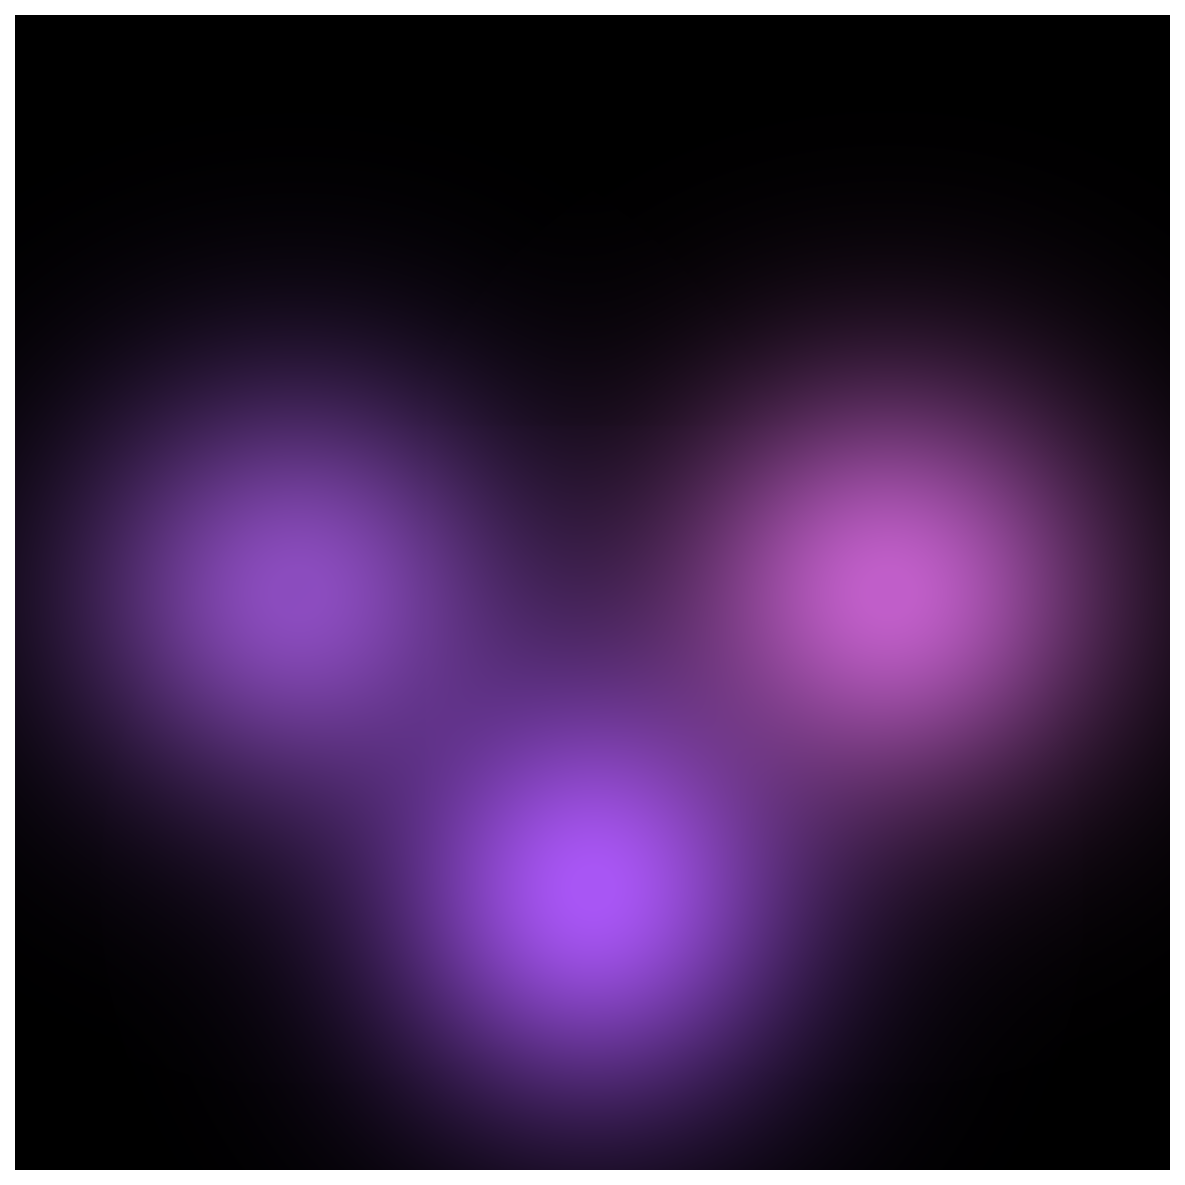
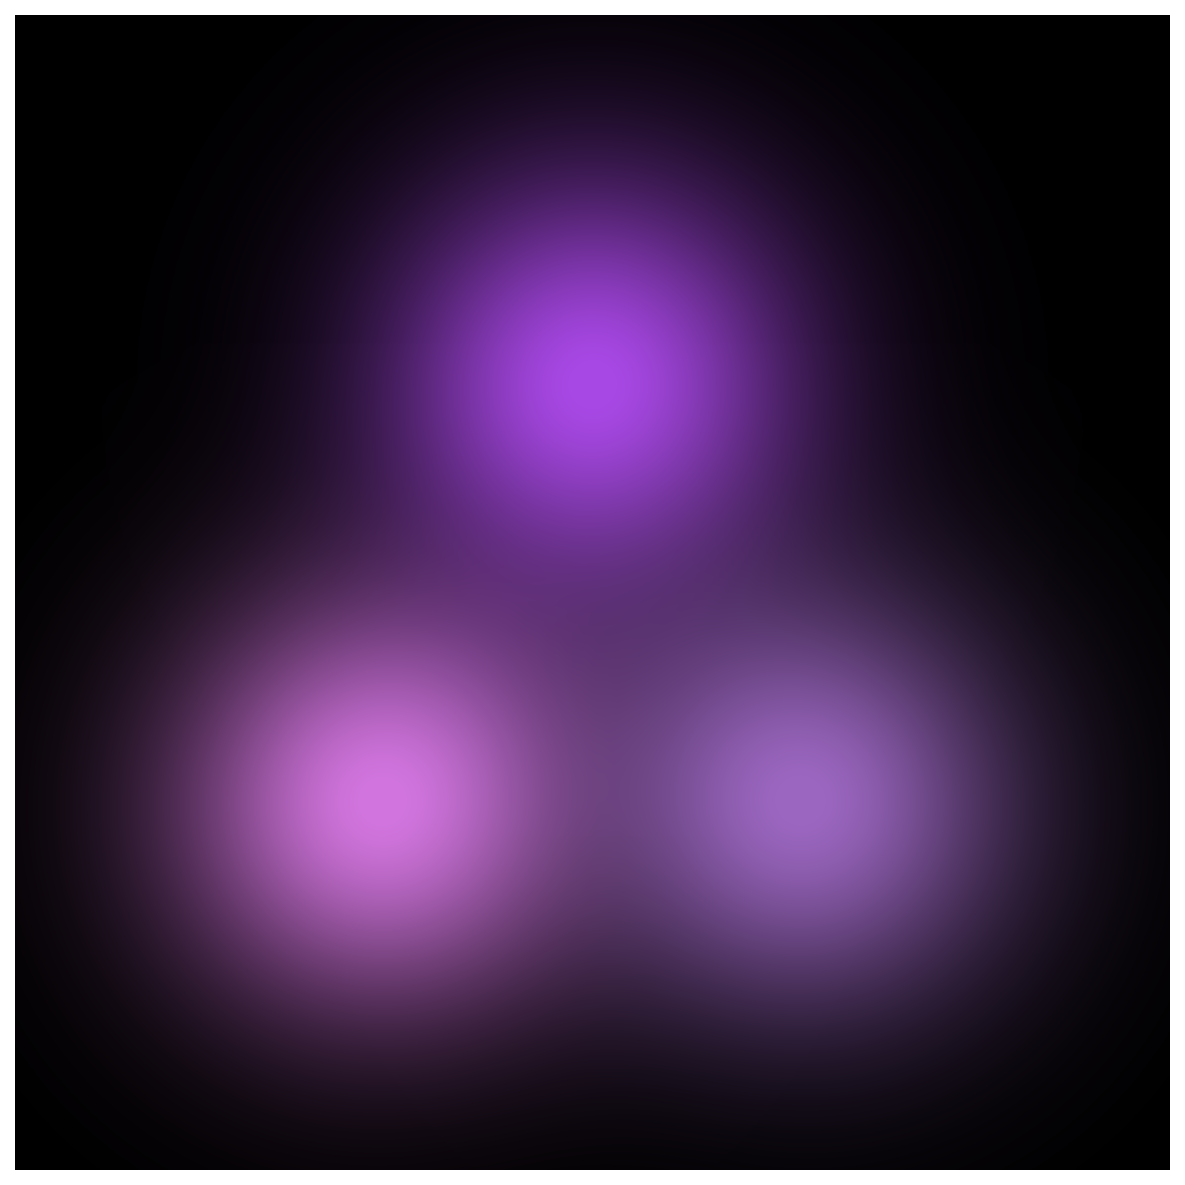
minor

diff --git a/forward.py b/forward.py
@@ -82,14 +82,6 @@ def compute_cov3d(scale: wp.vec3, scale_mod: float, rot: wp.vec4) -> VEC6:
     
     return VEC6(sigma[0, 0], sigma[0, 1], sigma[0, 2], sigma[1, 1], sigma[1, 2], sigma[2, 2])
 
-
-@wp.func
-def in_frustum(p_orig: wp.vec3, view_matrix: wp.mat44):
-    # bring point to screen space
-    p_view = wp.transform_point(view_matrix, p_orig)
-
-    return p_view
-
 @wp.kernel
 def wp_preprocess(
     orig_points: wp.array(dtype=wp.vec3),
@@ -133,23 +125,17 @@ def wp_preprocess(
     
     # For each Gaussian
     p_orig = orig_points[i]
-    p_view = in_frustum(p_orig, view_matrix)
-    
+    p_view = view_matrix * wp.vec4(p_orig[0], p_orig[1], p_orig[2], 1.0)
+
     if p_view[2] <= 0.2:
         return
+
+    p_hom = proj_matrix * wp.vec4(p_orig[0], p_orig[1], p_orig[2], 1.0)
     
-    p_hom = wp.vec4(p_view[0], p_view[1], p_view[2], 1.0)
-    p_hom = proj_matrix * p_hom
     p_w = 1.0 / (p_hom[3] + 0.0000001)
     p_proj = wp.vec3(p_hom[0] * p_w, p_hom[1] * p_w, p_hom[2] * p_w)
+
     # print(p_proj)
-    
-    # float3 p_orig = { orig_points[3 * idx], orig_points[3 * idx + 1], orig_points[3 * idx + 2] };
-	# float4 p_hom = transformPoint4x4(p_orig, projmatrix);
-	# float p_w = 1.0f / (p_hom.w + 0.0000001f);
-	# float3 p_proj = { p_hom.x * p_w, p_hom.y * p_w, p_hom.z * p_w };
-
-
     cov3d = compute_cov3d(scales[i], scale_modifier, rotations[i])
     cov3Ds[i] = cov3d
     # Compute 2D covariance matrix
@@ -638,6 +624,7 @@ def render_gaussians(
     print("view_matrix", view_matrix_warp)
     print("proj_matrix", proj_matrix_warp)
     print("campos", campos_warp)
+    # exit()
     # Launch preprocessing kernel
     wp.launch(
         kernel=wp_preprocess,

diff --git a/train.py b/train.py
@@ -429,7 +429,7 @@ class NeRFGaussianSplattingTrainer:
             scales=self.params['scales'].numpy(),
             rotations=self.params['rotations'].numpy(),
             scale_modifier=self.config['scale_modifier'],
-            viewmatrix=self.cameras[camera_idx]['view_matrix'],
+            viewmatrix=self.cameras[camera_idx]['world_to_camera'],
             projmatrix=self.cameras[camera_idx]['full_proj_matrix'],
             tan_fovx=self.cameras[camera_idx]['tan_fovx'],
             tan_fovy=self.cameras[camera_idx]['tan_fovy'],
@@ -550,7 +550,7 @@ class NeRFGaussianSplattingTrainer:
                     scales=self.params['scales'].numpy(),
                     rotations=self.params['rotations'].numpy(),
                     scale_modifier=self.config['scale_modifier'],
-                    viewmatrix=self.cameras[camera_idx]['view_matrix'],
+                    viewmatrix=self.cameras[camera_idx]['world_to_camera'],
                     projmatrix=self.cameras[camera_idx]['full_proj_matrix'],
                     tan_fovx=self.cameras[camera_idx]['tan_fovx'],
                     tan_fovy=self.cameras[camera_idx]['tan_fovy'],
@@ -586,7 +586,7 @@ class NeRFGaussianSplattingTrainer:
                 
                 # Prepare camera parameters
                 camera = self.cameras[camera_idx]
-                view_matrix = wp.mat44(camera['view_matrix'].flatten())
+                view_matrix = wp.mat44(camera['world_to_camera'].flatten())
                 proj_matrix = wp.mat44(camera['full_proj_matrix'].flatten())
                 campos = wp.vec3(camera['camera_center'][0], camera['camera_center'][1], camera['camera_center'][2])
 

diff --git a/render.py b/render.py
@@ -19,13 +19,16 @@ def setup_example_scene(image_width=1800, image_height=1800, fovx=45.0, fovy=45.
     # Camera setup
     T = np.array([0, 0, 5], dtype=np.float32)
     R = np.array([[1, 0, 0], [0, 1, 0], [0, 0, -1]], dtype=np.float32)
+    world_to_camera = np.eye(4, dtype=np.float32)
+    world_to_camera[:3, :3] = R
+    world_to_camera[:3, 3] = T
+    world_to_camera = world_to_camera.T
     
     # Compute matrices
     view_matrix = world_to_view(R=R, t=T)
-    proj_matrix = projection_matrix(fovx=fovx, fovy=fovy, znear=znear, zfar=zfar)
-    full_proj_matrix = view_matrix @ proj_matrix
+    proj_matrix = projection_matrix(fovx=fovx, fovy=fovy, znear=znear, zfar=zfar).T
+    full_proj_matrix = world_to_camera @ proj_matrix
     
-    world_to_camera = np.linalg.inv(view_matrix).T
     camera_center = np.linalg.inv(world_to_camera)[3, :3]
     
     # Compute FOV parameters
@@ -41,6 +44,7 @@ def setup_example_scene(image_width=1800, image_height=1800, fovx=45.0, fovy=45.
         'camera_center': camera_center,
         'view_matrix': view_matrix,
         'proj_matrix': proj_matrix,
+        'world_to_camera': world_to_camera,
         'full_proj_matrix': full_proj_matrix,
         'tan_fovx': tan_fovx,
         'tan_fovy': tan_fovy,
@@ -51,7 +55,7 @@ def setup_example_scene(image_width=1800, image_height=1800, fovx=45.0, fovy=45.
     }
     
     # Gaussian setup
-    pts = np.array([[2, 0, -2], [0, 2, -2], [-2, 0, -2]], dtype=np.float32)
+    pts = np.array([[-1, -1, -2], [0, 1, -2], [1, -1, -2]], dtype=np.float32)
     n = len(pts)
     
     # Hard-coded SHs for debugging

diff --git a/utils/camera_utils.py b/utils/camera_utils.py
@@ -23,7 +23,9 @@ def load_camera(camera_info):
     T = world_to_camera[:3, 3]
     
     
+    world_to_camera[3, 3] = 1.
     world_to_camera = world_to_camera.T
+
     
     width = camera_info.get("width")
     height = camera_info.get("height")
@@ -42,8 +44,8 @@ def load_camera(camera_info):
     # Create projection matrix
     znear = 0.01
     zfar = 100.0
-    proj_matrix = projection_matrix(fovx=fovx, fovy=fovy, znear=znear, zfar=zfar)
-    full_proj_matrix = view_matrix @ proj_matrix
+    proj_matrix = projection_matrix(fovx=fovx, fovy=fovy, znear=znear, zfar=zfar).T
+    full_proj_matrix = world_to_camera @ proj_matrix
     
     # Calculate other parameters
     tan_fovx = np.tan(fovx * 0.5)
